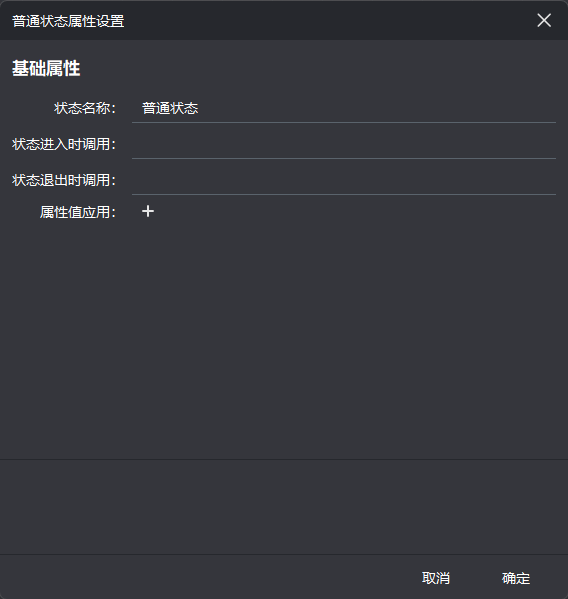
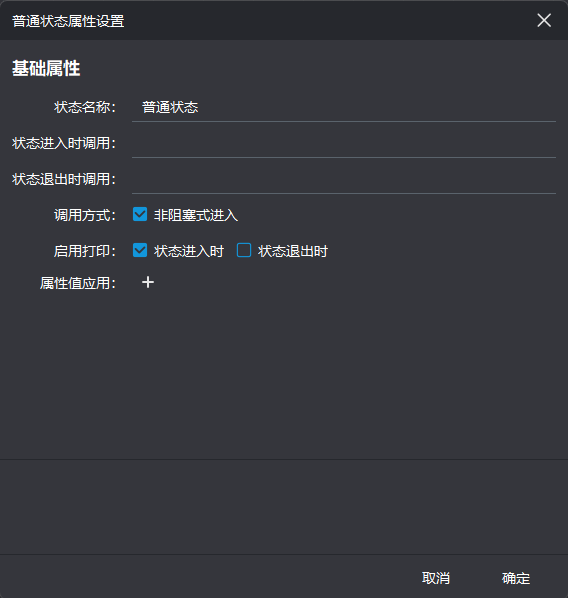
update doc

diff --git a/docs/editor/usage.md b/docs/editor/usage.md
@@ -19,6 +19,27 @@ auto runner = new TaskMachineRunner("test_flow1", parent);
 runner->run(context);
 ```
 
+## 启用日志
+
+默认情况下，TaskMachineRunner只会打印 `Warning` 和 `Critical` 等级的日志，使用 `setLogLevels` 函数调整日志等级：
+
+```cpp
+auto runner = new TaskMachineRunner("test_flow1", parent);
+runner->setLogLevels(TaskMachineRunner::Debug | TaskMachineRunner::Info);
+runner->run(context);
+```
+
+也可以使用日志筛选器进行控制：
+
+```cpp
+Q_LOGGING_CATEGORY(my_state, "test.my_state")
+
+auto runner = new TaskMachineRunner("test_flow1", parent);
+runner->setLogging(my_state, TaskMachineRunner::All);
+runner->run(context);
+
+```
+
 ## 流程图的绘制
 
 在空白处点击右键，选择并添加不同类型的状态，不同的状态有不同数量的输入和输出端口，连接状态的输出到下一个状态的输入则表示一个状态切换关系。通常情况下，输入端口可以被多个状态连接，而输出端口只能连接到一个输入端口。

diff --git a/docs/editor/props/base-prop.md b/docs/editor/props/base-prop.md
@@ -38,6 +38,14 @@ private slots:
 
 :::
 
+## 调用方式
+
+可设置非阻塞方式进入的有：普通状态、条件执行状态、循环执行状态。这些状态进入到退出会立即切换状态，不会进入当前线程的事件循环，这将导致父状态遇到异常无法退出子状态，特别是当子状态的‘进入时调用函数’正在执行耗时操作时。当设置非阻塞式调用时（默认值），该状态的切换将使用内部信号调用，这将进入事件循环中执行，因此该状态在切换到下一个状态之前能够正常响应父状态的异常切换。
+
+## 启用打印
+
+决定是否打印状态的进入和退出，使用当前状态的名称进行打印。
+
 ## 属性值应用
 
 点击 ![add](https://raw.githubusercontent.com/daonvshu/qtaskmachine/refs/heads/main/editor/res/add.svg) 图标，添加一个属性值的设置。
